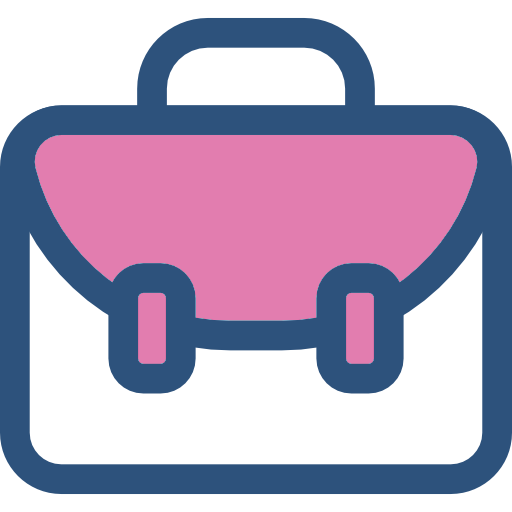
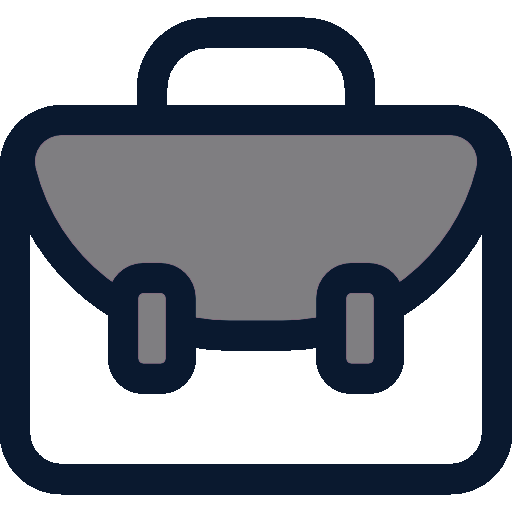
change color

diff --git a/index.html b/index.html
@@ -180,7 +180,7 @@
 
           <div class="home-img">
             <div class="img-box ">
-              <img src="/img/programmer-doing-programming-3454631-2918520-removebg-preview.png" class=""
+              <img src="/img/programmer-doing-programming-3454631-2918520-removebg-preview2.png" class=""
                 alt="profile-pic">
 
             </div>
